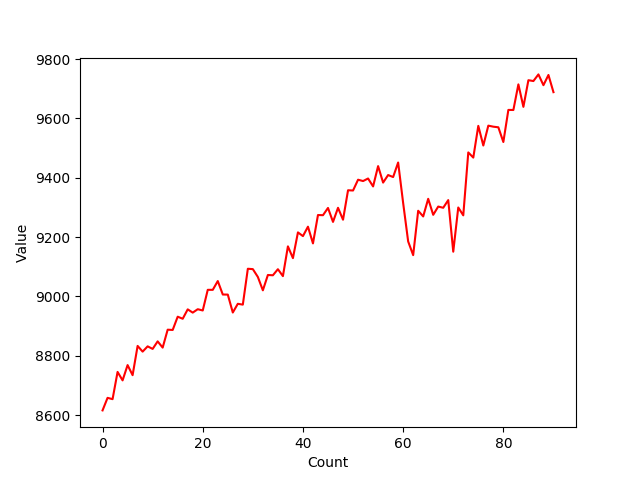
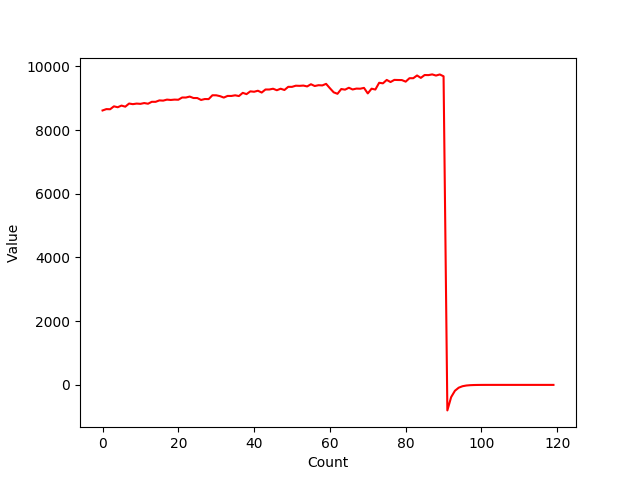
Automated Commision

diff --git a/service.py b/service.py
@@ -82,24 +82,26 @@ def long_term_prediction(stock, _range, model_name):
     for val in timeseries.raw_matrix():
         prediction_matrix.append(rescale(val, timeseries.minimum(), timeseries.maximum()))
     
-    matrix, prediction = rolling_mean_trend(timeseries, MONTH)
-    matrix = sampling(matrix, 0, 2, STANDARD_SAMPLING_RANGE)
-    timeseries.set_sampled_matrix(matrix)
+    while count < _range:
+        matrix, prediction = rolling_mean_trend(timeseries, MONTH)
+        matrix = sampling(matrix, 0, 2, STANDARD_SAMPLING_RANGE)
+        timeseries.set_sampled_matrix(matrix)
     
-    prediction = 0.00
-    result = predictor.predict(timeseries)
-    for i in range(result.shape[0]):
-        for j in range(result.shape[1]):
-            prediction = rescale(result[i][j], timeseries.minimum(), timeseries.maximum())
-    prediction_matrix.append(prediction)
+        prediction = 0.00
+        result = predictor.predict(timeseries)
+        for i in range(result.shape[0]):
+            for j in range(result.shape[1]):
+                prediction = rescale(result[i][j], timeseries.minimum(), timeseries.maximum())
+        prediction_matrix.append(prediction)
 
-    raw = timeseries.raw_matrix()
-    del raw[0]
-    raw.append(prediction)
-    timeseries.set_raw_matrix(raw)
-    count += 1
-    print(timeseries.raw_size())
-
+        raw = timeseries.raw_matrix()
+        del raw[0]
+        raw.append(prediction)
+        timeseries.set_raw_matrix(raw)
+        count += 1
+        if count % 10 == 0:
+            print("Long Term Prediction [Process Count = ", count, "]")
+    print("\n\n")
     return prediction_matrix
 def visualize_model_prediction(stock, model_name):
     dataset = partition_time_series(stock, QUARTER, 0)
